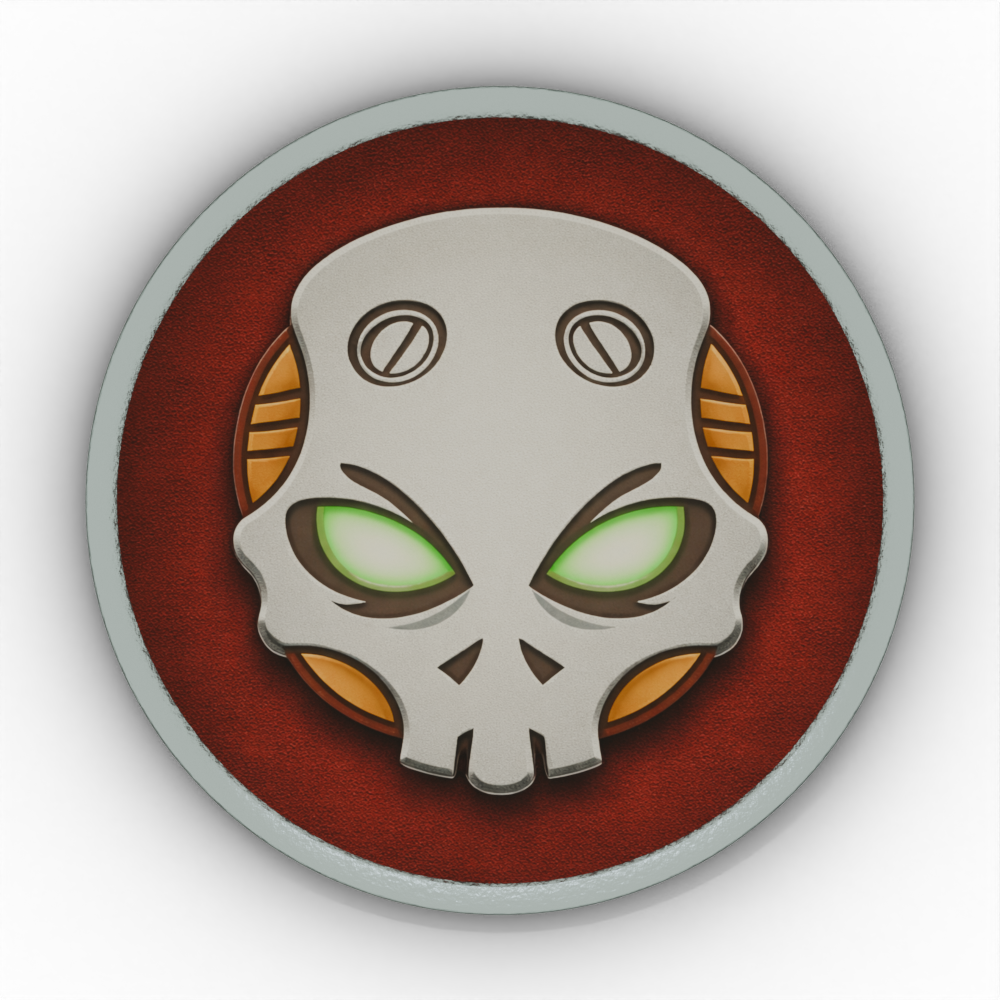
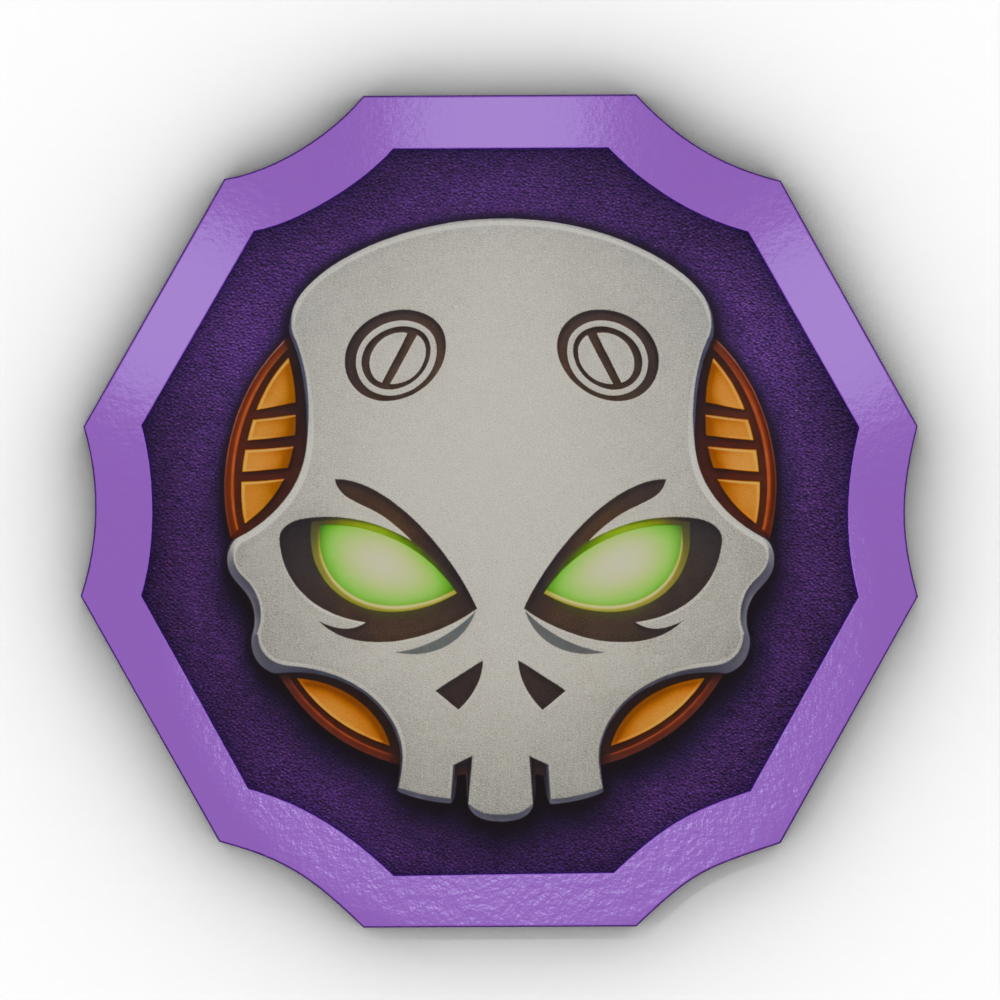
update tokens images

diff --git a/src/game-prototypes/hexobject-prototypes.ts b/src/game-prototypes/hexobject-prototypes.ts
@@ -110,7 +110,7 @@ export const HEX_OBJECT_PROTOTYPES: Record<THexobjectKey, THexobjectPrototype> =
             faction: "enemy"
         },
         collision: EHexCollision.SOLID,
-        spritePath: 'src/assets/enemy-assets/boss-hex-images/skeletor-hex-image.png',
+        spritePath: 'src/assets/enemy-assets/boss-hex-images/skeletor-token-image.png',
     },
 
     [HEXOBJECT_KEYS.EMITTER]: {
@@ -138,7 +138,7 @@ export const HEX_OBJECT_PROTOTYPES: Record<THexobjectKey, THexobjectPrototype> =
             faction: "enemy"
         },
         collision: EHexCollision.SOLID,
-        spritePath: 'src/assets/enemy-assets/boss-hex-images/inferno-hex-image.png',
+        spritePath: 'src/assets/enemy-assets/boss-hex-images/inferno-token-image.png',
     },
 
     [HEXOBJECT_KEYS.AXE]: {

diff --git a/src/a-game-scenes/map-scene/providers/map-tiles-schema-provider.ts b/src/a-game-scenes/map-scene/providers/map-tiles-schema-provider.ts
@@ -8,7 +8,7 @@ export const homelandMapConfig: IHexMapPlacement[] = [
     },
     {
         hexobject: {hexobjectKey: HEXOBJECT_KEYS.EMITTER},
-        coordinates: [{ rowIndex: 5, columnIndex: 8 }],
+        coordinates: [{ rowIndex: 0, columnIndex: 9 }],
     },
     {
         hexobject: {hexobjectKey: HEXOBJECT_KEYS.INFERNO},
